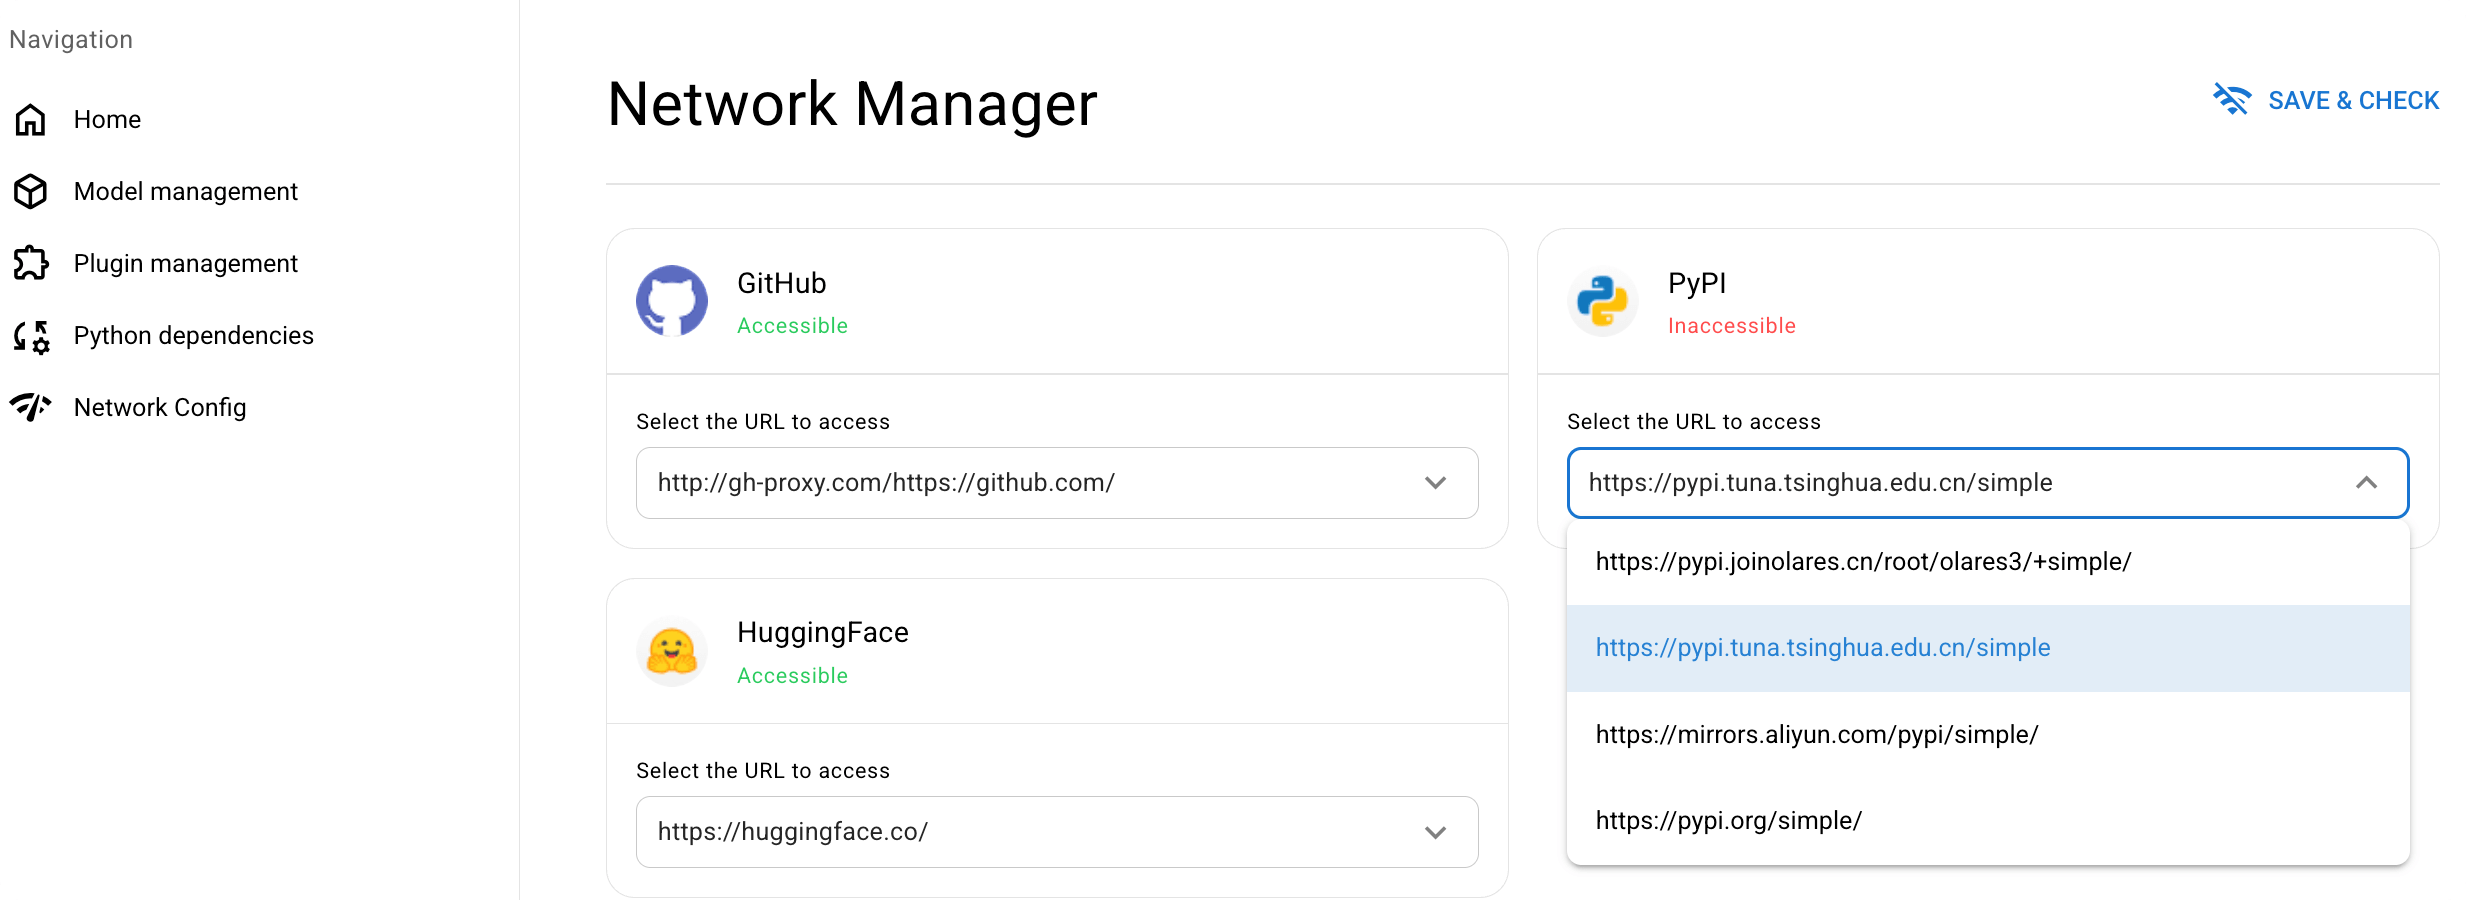
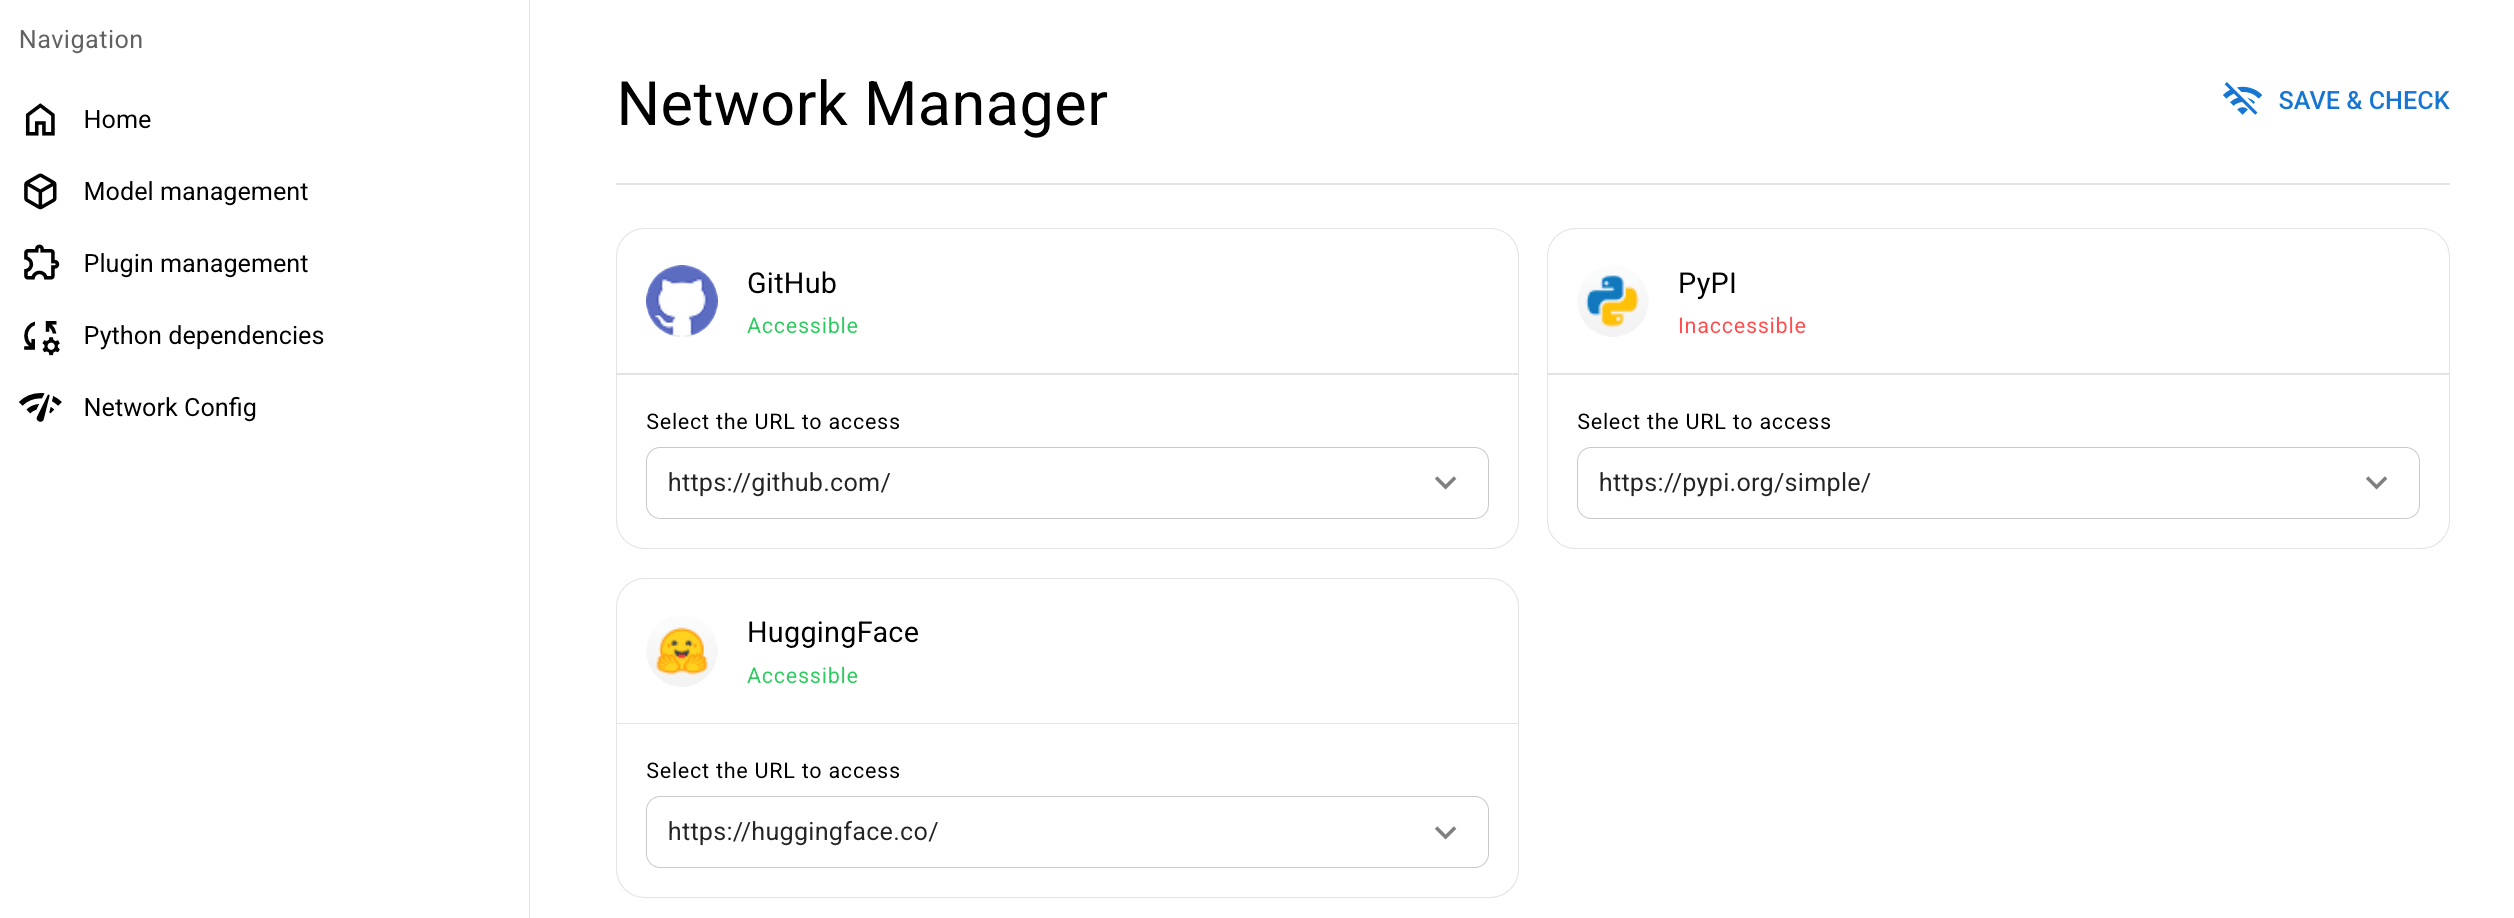
docs: update the structure and content

diff --git a/docs/use-cases/comfyui-launcher.md b/docs/use-cases/comfyui-launcher.md
@@ -44,12 +44,57 @@ As the administrator, you must start the ComfyUI service before you or other mem
 ComfyUI relies heavily on external resources such as GitHub (plugins), PyPI (Python packages), and Hugging Face (models). Before installing components, verify the connection status in **Network Config**.
 
 1. Go to **Network Config**.
-2. If any service shows `Inaccessible`, select an alternative URL for that service from the provided list.
-3. Click **SAVE & CHECK** to re-test connectivity.
+2. Check the connectivity to GitHub, PyPI, and Hugging Face.
+3. If any service shows `Inaccessible`, fix your network or proxy settings, and then click **SAVE & CHECK** to test again.
     ![Configure network](/images/manual/use-cases/comfyui-network-config.png#bordered)   
 4. Repeat until the status of each service becomes `Accessible`.
 
 ![Network recheck](/images/manual/use-cases/comfyui-network-accessible.png#bordered){width=300}   
+
+## Manage files and directories
+
+ComfyUI Launcher provides quick access to key directories and uses a shared model folder so models can be reused across Olares AI applications (such as ComfyUI and SD Web UI).
+
+### Access file locations
+
+On the **Home** tab, the **File Type** section provides direct access to the five main directories:
+
+- **Root** – Root directory of the ComfyUI installation.
+- **Plugin** – Stores installed plugins.
+- **Model** – Centralized storage for AI models.
+- **Output** – Default destination for images and other assets generated by ComfyUI.
+- **Input** – Folder for source images used in image-to-image or in-painting workflows.
+
+Clicking any of these entries opens the **Files** app directly in the corresponding directory.
+
+### Understand the model directory structure
+
+The **Model** directory shown under **File Type** maps to the following path in **Files**:
+
+**Path:** `/Files/External/olares/ai/model/`
+
+When uploading external models manually or selecting a destination in **Custom Download**, it is important to place files into the correct subfolder. The same structure is shared across Olares AI applications:
+
+```plain
+/Files/External/olares/ai/model
+  ├─ main/               → Base checkpoints (SD 1.5, SDXL, Flux)
+  ├─ vae/                → VAE models
+  ├─ lora/               → LoRA weights
+  ├─ controlnet/         → ControlNet models
+  ├─ ipadapter/          → IP-Adapter models
+  ├─ upscale_models/     → Upscalers (ESRGAN, SwinIR, etc.)
+  ├─ clip_vision/        → CLIP Vision models (used for IP-Adapter)
+  ├─ unet/               → Standalone UNet weights (Flux, SD3)
+  ├─ text_encoders/      → Text encoder models (T5, CLIP-L/G)
+  ├─ clip/               → CLIP models
+  ├─ embeddings/         → Textual Inversion embeddings
+  ├─ hypernetworks/      → Hypernetwork weights
+  ├─ facerestore_models/ → Face restoration (GFPGAN, CodeFormer)
+  ├─ inpaint/            → Inpainting-specific models
+  ├─ style_models/       → Style or effect models
+  └─ diffusion_models/   → Other diffusion backbones
+```
+Make sure the model type matches the target folder so that ComfyUI (and other AI apps) can detect and use the files correctly.
 
 ## Manage models
 
@@ -57,7 +102,7 @@ ComfyUI Launcher provides flexible ways to manage models: install the essential 
 
 ### Install essential models
 
-Essential models are basic resources required for ComfyUI to run, including SD large models, VAE, preview decoders, and auxiliary tools models. We recommend installing them on first run.
+Essential models are basic resources required for ComfyUI to run, including SD large models, VAE, preview decoders, and auxiliary tool models. We recommend installing them on first run.
 
 1. Open the package page in either of the following ways:
     - In the **Missing essential models** prompt window that appears on first start, click **INSTALL MODELS**.
@@ -66,7 +111,7 @@ Essential models are basic resources required for ComfyUI to run, including SD l
 
 2. On the Package Details page, click **GET ALL** to start the automatic installation. You can track progress via the status bar.
     
-    ![Install essential models](/images/manual/use-cases/comfyui-install-essential.png#bordered)
+    ![Download progress](/images/manual/use-cases/comfyui-download-progress.png#bordered)
 
 ### Install additional models
 
@@ -100,23 +145,6 @@ If you can't find the desired model on Hugging Face, you can upload external mod
 2. Go to **External** > **olares** > **ai** > **model**.
 3. Find the folder that your downloaded model belongs to and upload the file directly inside the target folder.
 
-:::tip Folder structure guide
-Ensure files are placed in the correct subfolders so ComfyUI recognizes them:
-```plain
-ai/model
-  ├─ checkpoints/       → Base models (SD 1.5 / SDXL / Flux)  [.safetensors/.ckpt]
-  ├─ vae/               → VAE                                 [.vae/.safetensors]
-  ├─ loras/             → LoRA                                [.safetensors]
-  ├─ controlnet/        → ControlNet models
-  ├─ clip/              → CLIP text encoders
-  ├─ ipadapter/         → IP-Adapter models
-  ├─ upscalers/         → (Real)ESRGAN and other upscalers
-  ├─ unet/              → UNet weights (e.g., SDXL/Flux)
-  ├─ style_models/      → Style/special models (plugin-dependent)
-  └─ others/            → Misc. or plugin-specific weights
-  ```
-:::
-
 ### Delete models
 
 To delete a model:
@@ -138,34 +166,22 @@ To manage available plugins registered in ComfyUI Manager:
 1. Go to **Plugin management** > **Plugin library**.
 2. Under **Available Plugins**, find the target plugin. 
 
-   For any plugin, you can:
-   - Click the <i class="material-symbols-outlined">visibility</i> button to view plugin details.
-   - Visit the GitHub repository if it is available.
+For any plugin, you can:
+- Click the <i class="material-symbols-outlined">visibility</i> button to view plugin details.
+- Visit the GitHub repository if it is available.
 
-   Depending on the plugin status, additional actions are available:
+Depending on the plugin status, different actions are available:
 
-    - **`Not installed`**:  
-      - Switch version if multiple versions are provided.  
-      - Click <i class="material-symbols-outlined">download</i> to install the plugin.
-
-    - **`Installed`**:  
-      - Switch version to upgrade or roll back. 
-      - Click <i class="material-symbols-outlined">pause</i> to disable the plugin.  
-      - Click <i class="material-symbols-outlined">delete</i> to uninstall the plugin.
-
-    - **`Disabled`**:  
-      - Switch version.  
-      - Click <i class="material-symbols-outlined">play_circle</i> to enable the plugin.  
-      - Click <i class="material-symbols-outlined">delete</i> to uninstall the plugin.
-
-    - **`Banned`**:  
-        Banned plugins cannot be installed or enabled.
+| Status | Switch version | Install | Enable | Disable | Uninstall |
+| -- | -- | -- | -- | -- | -- 
+| `Not installed` | ✔ | ✔  | –  | – | – |
+| `Installed`     | ✔ | – | – | ✔ | ✔ |
+| `Disabled`      | ✔ | – | ✔ | – | ✔ |
+| `Banned`        | – | – | – | – | – |
 
 At the top of the section, you can also:
    - Click **UPDATE ALL PLUGINS** to update all installed plugins.
    - Click **REFRESH** to refresh the plugin list.
-
-
 
 ### Install plugins from GitHub
 
